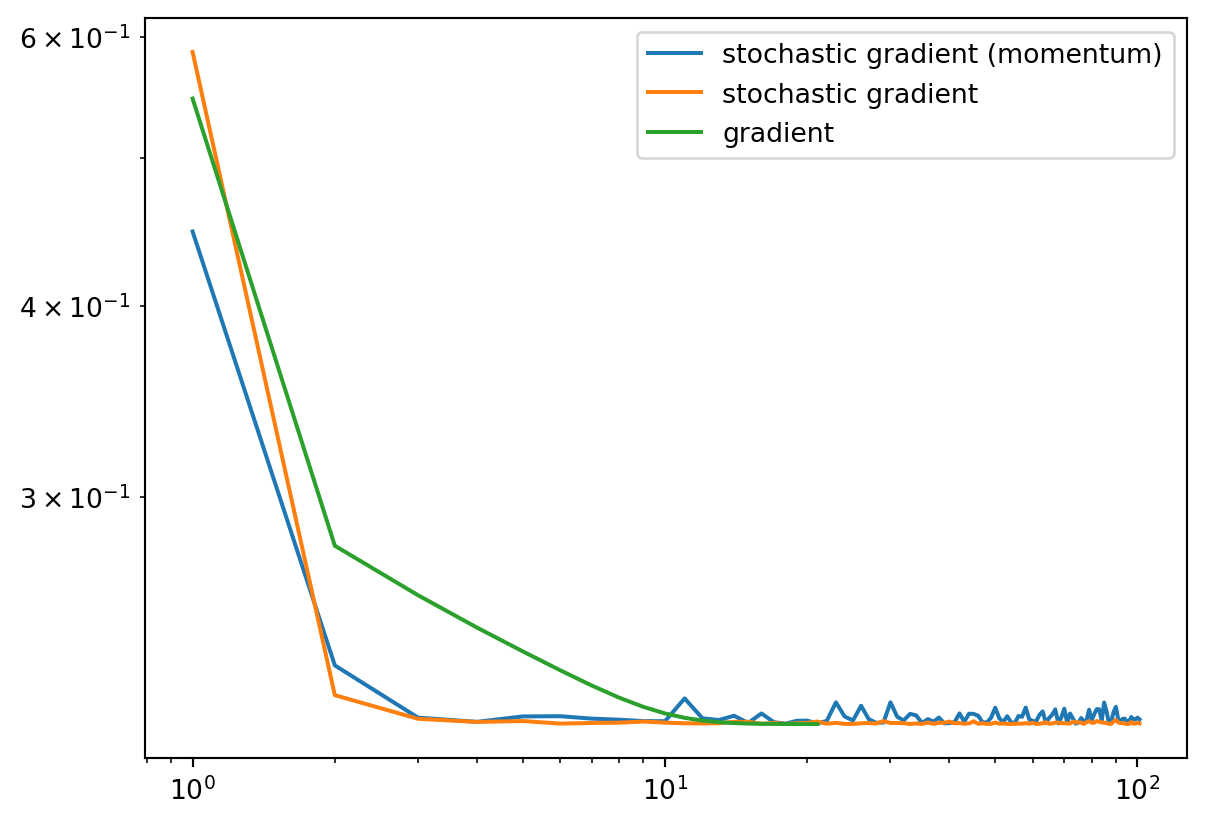
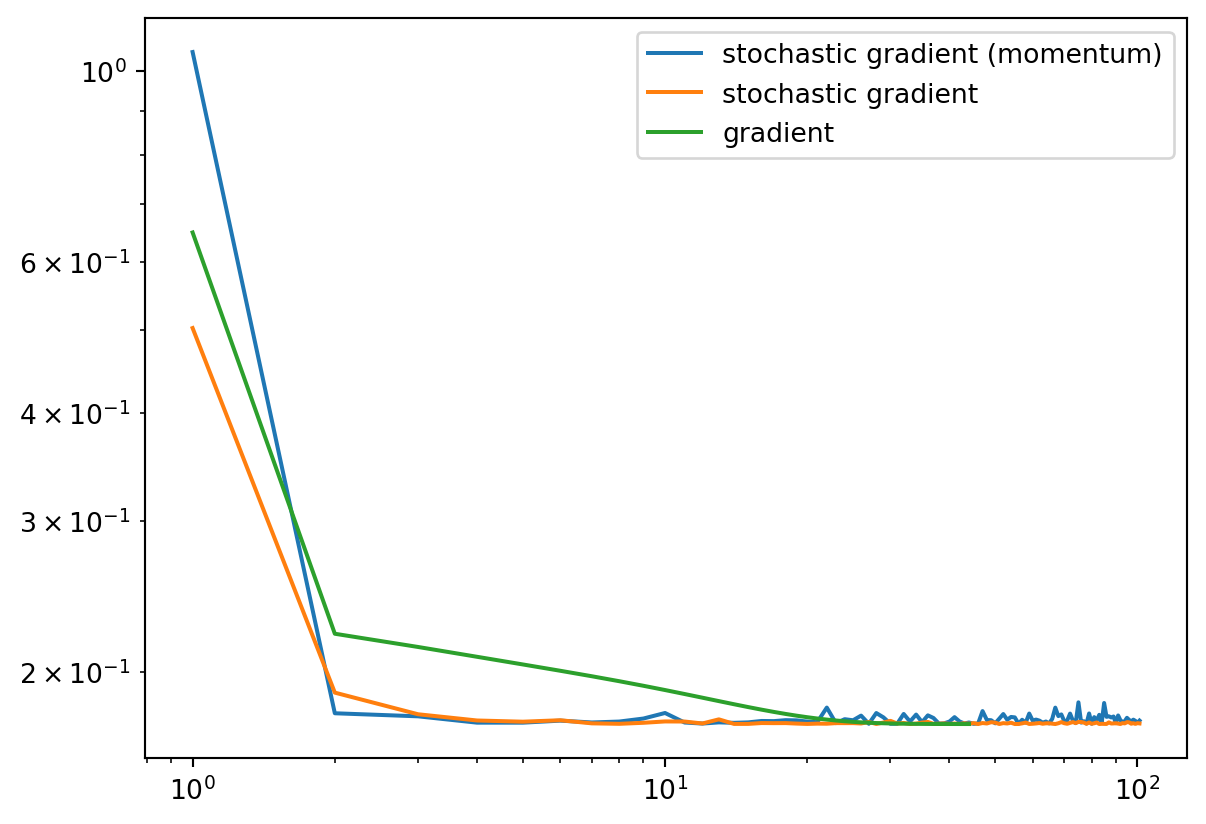
various updates

diff --git a/docs/assignments/blog-posts/blog-post-optimization.html b/docs/assignments/blog-posts/blog-post-optimization.html
@@ -281,9 +281,13 @@ code span.wa { color: #60a0b0; font-weight: bold; font-style: italic; } /* Warni
 <span id="cb2-4"><a href="#cb2-4" aria-hidden="true" tabindex="-1"></a>LR.fit(X, y, alpha <span class="op">=</span> <span class="fl">0.1</span>, max_epochs <span class="op">=</span> <span class="dv">1000</span>)</span>
 <span id="cb2-5"><a href="#cb2-5" aria-hidden="true" tabindex="-1"></a></span>
 <span id="cb2-6"><a href="#cb2-6" aria-hidden="true" tabindex="-1"></a><span class="co"># inspect the fitted value of w</span></span>
-<span id="cb2-7"><a href="#cb2-7" aria-hidden="true" tabindex="-1"></a>LR.w </span></code><button title="Copy to Clipboard" class="code-copy-button"><i class="bi"></i></button></pre></div>
-<div class="cell-output cell-output-display" data-execution_count="2">
-<pre><code>array([ 1.82446608,  2.00364179, -0.239102  ])</code></pre>
+<span id="cb2-7"><a href="#cb2-7" aria-hidden="true" tabindex="-1"></a>LR.w </span>
+<span id="cb2-8"><a href="#cb2-8" aria-hidden="true" tabindex="-1"></a></span>
+<span id="cb2-9"><a href="#cb2-9" aria-hidden="true" tabindex="-1"></a>fig <span class="op">=</span> plt.scatter(X[:,<span class="dv">0</span>], X[:,<span class="dv">1</span>], c <span class="op">=</span> y)</span>
+<span id="cb2-10"><a href="#cb2-10" aria-hidden="true" tabindex="-1"></a>xlab <span class="op">=</span> plt.xlabel(<span class="st">"Feature 1"</span>)</span>
+<span id="cb2-11"><a href="#cb2-11" aria-hidden="true" tabindex="-1"></a>ylab <span class="op">=</span> plt.ylabel(<span class="st">"Feature 2"</span>)</span></code><button title="Copy to Clipboard" class="code-copy-button"><i class="bi"></i></button></pre></div>
+<div class="cell-output cell-output-display">
+<p><img src="blog-post-optimization_files/figure-html/cell-3-output-1.png" width="587" height="429"></p>
 </div>
 </div>
 </section>
@@ -305,19 +309,19 @@ code span.wa { color: #60a0b0; font-weight: bold; font-style: italic; } /* Warni
 <li>When we have gone through all <span class="math inline">\(n\)</span> points, reshuffle them all randomly and proceed again.</li>
 </ol>
 <p>This process can be accomplished efficiently using the <code>np.array_split()</code> function, which will create batches for you. Here is some code to get you started; it will split the data into batches of size <code>batch_size</code></p>
-<div class="sourceCode" id="cb4"><pre class="sourceCode python code-with-copy"><code class="sourceCode python"><span id="cb4-1"><a href="#cb4-1" aria-hidden="true" tabindex="-1"></a></span>
-<span id="cb4-2"><a href="#cb4-2" aria-hidden="true" tabindex="-1"></a>n <span class="op">=</span> X.shape[<span class="dv">0</span>]</span>
-<span id="cb4-3"><a href="#cb4-3" aria-hidden="true" tabindex="-1"></a><span class="cf">for</span> j <span class="kw">in</span> np.arange(m_epochs):</span>
-<span id="cb4-4"><a href="#cb4-4" aria-hidden="true" tabindex="-1"></a>            </span>
-<span id="cb4-5"><a href="#cb4-5" aria-hidden="true" tabindex="-1"></a>    order <span class="op">=</span> np.arange(n)</span>
-<span id="cb4-6"><a href="#cb4-6" aria-hidden="true" tabindex="-1"></a>    np.random.shuffle(order)</span>
-<span id="cb4-7"><a href="#cb4-7" aria-hidden="true" tabindex="-1"></a></span>
-<span id="cb4-8"><a href="#cb4-8" aria-hidden="true" tabindex="-1"></a>    <span class="cf">for</span> batch <span class="kw">in</span> np.array_split(order, n <span class="op">//</span> batch_size <span class="op">+</span> <span class="dv">1</span>):</span>
-<span id="cb4-9"><a href="#cb4-9" aria-hidden="true" tabindex="-1"></a>        x_batch <span class="op">=</span> X[batch,:]</span>
-<span id="cb4-10"><a href="#cb4-10" aria-hidden="true" tabindex="-1"></a>        y_batch <span class="op">=</span> y[batch]</span>
-<span id="cb4-11"><a href="#cb4-11" aria-hidden="true" tabindex="-1"></a>        grad <span class="op">=</span> gradient(w, x_batch, y_batch) </span>
-<span id="cb4-12"><a href="#cb4-12" aria-hidden="true" tabindex="-1"></a>        <span class="co"># perform the gradient step</span></span>
-<span id="cb4-13"><a href="#cb4-13" aria-hidden="true" tabindex="-1"></a>        <span class="co"># ...</span></span></code><button title="Copy to Clipboard" class="code-copy-button"><i class="bi"></i></button></pre></div>
+<div class="sourceCode" id="cb3"><pre class="sourceCode python code-with-copy"><code class="sourceCode python"><span id="cb3-1"><a href="#cb3-1" aria-hidden="true" tabindex="-1"></a></span>
+<span id="cb3-2"><a href="#cb3-2" aria-hidden="true" tabindex="-1"></a>n <span class="op">=</span> X.shape[<span class="dv">0</span>]</span>
+<span id="cb3-3"><a href="#cb3-3" aria-hidden="true" tabindex="-1"></a><span class="cf">for</span> j <span class="kw">in</span> np.arange(m_epochs):</span>
+<span id="cb3-4"><a href="#cb3-4" aria-hidden="true" tabindex="-1"></a>            </span>
+<span id="cb3-5"><a href="#cb3-5" aria-hidden="true" tabindex="-1"></a>    order <span class="op">=</span> np.arange(n)</span>
+<span id="cb3-6"><a href="#cb3-6" aria-hidden="true" tabindex="-1"></a>    np.random.shuffle(order)</span>
+<span id="cb3-7"><a href="#cb3-7" aria-hidden="true" tabindex="-1"></a></span>
+<span id="cb3-8"><a href="#cb3-8" aria-hidden="true" tabindex="-1"></a>    <span class="cf">for</span> batch <span class="kw">in</span> np.array_split(order, n <span class="op">//</span> batch_size <span class="op">+</span> <span class="dv">1</span>):</span>
+<span id="cb3-9"><a href="#cb3-9" aria-hidden="true" tabindex="-1"></a>        x_batch <span class="op">=</span> X[batch,:]</span>
+<span id="cb3-10"><a href="#cb3-10" aria-hidden="true" tabindex="-1"></a>        y_batch <span class="op">=</span> y[batch]</span>
+<span id="cb3-11"><a href="#cb3-11" aria-hidden="true" tabindex="-1"></a>        grad <span class="op">=</span> gradient(w, x_batch, y_batch) </span>
+<span id="cb3-12"><a href="#cb3-12" aria-hidden="true" tabindex="-1"></a>        <span class="co"># perform the gradient step</span></span>
+<span id="cb3-13"><a href="#cb3-13" aria-hidden="true" tabindex="-1"></a>        <span class="co"># ...</span></span></code><button title="Copy to Clipboard" class="code-copy-button"><i class="bi"></i></button></pre></div>
 <p>For stochastic gradient descent, only update <code>self.loss_history</code> <em>at the end of each epoch</em>. This allows us to compare to regular gradient descent, since in both algorithms at the end of an epoch we have used every single point once.</p>
 </section>
 <section id="momentum-optional" class="level3">
@@ -328,35 +332,35 @@ code span.wa { color: #60a0b0; font-weight: bold; font-style: italic; } /* Warni
 <h3 class="anchored" data-anchor-id="illustration">Illustration</h3>
 <p>Here is an example plot showing the evolution of the loss function for the three algorithms:</p>
 <div class="cell caption-undefined" data-execution_count="4">
-<div class="sourceCode cell-code" id="cb5"><pre class="sourceCode python code-with-copy"><code class="sourceCode python"><span id="cb5-1"><a href="#cb5-1" aria-hidden="true" tabindex="-1"></a>LR <span class="op">=</span> LogisticRegression()</span>
-<span id="cb5-2"><a href="#cb5-2" aria-hidden="true" tabindex="-1"></a>LR.fit_stochastic(X, y, </span>
-<span id="cb5-3"><a href="#cb5-3" aria-hidden="true" tabindex="-1"></a>                  m_epochs <span class="op">=</span> <span class="dv">100</span>, </span>
-<span id="cb5-4"><a href="#cb5-4" aria-hidden="true" tabindex="-1"></a>                  momentum <span class="op">=</span> <span class="va">True</span>, </span>
-<span id="cb5-5"><a href="#cb5-5" aria-hidden="true" tabindex="-1"></a>                  batch_size <span class="op">=</span> <span class="dv">10</span>, </span>
-<span id="cb5-6"><a href="#cb5-6" aria-hidden="true" tabindex="-1"></a>                  alpha <span class="op">=</span> <span class="fl">.05</span>) </span>
-<span id="cb5-7"><a href="#cb5-7" aria-hidden="true" tabindex="-1"></a></span>
-<span id="cb5-8"><a href="#cb5-8" aria-hidden="true" tabindex="-1"></a>num_steps <span class="op">=</span> <span class="bu">len</span>(LR.loss_history)</span>
-<span id="cb5-9"><a href="#cb5-9" aria-hidden="true" tabindex="-1"></a>plt.plot(np.arange(num_steps) <span class="op">+</span> <span class="dv">1</span>, LR.loss_history, label <span class="op">=</span> <span class="st">"stochastic gradient (momentum)"</span>)</span>
-<span id="cb5-10"><a href="#cb5-10" aria-hidden="true" tabindex="-1"></a></span>
-<span id="cb5-11"><a href="#cb5-11" aria-hidden="true" tabindex="-1"></a>LR <span class="op">=</span> LogisticRegression()</span>
-<span id="cb5-12"><a href="#cb5-12" aria-hidden="true" tabindex="-1"></a>LR.fit_stochastic(X, y, </span>
-<span id="cb5-13"><a href="#cb5-13" aria-hidden="true" tabindex="-1"></a>                  m_epochs <span class="op">=</span> <span class="dv">100</span>, </span>
-<span id="cb5-14"><a href="#cb5-14" aria-hidden="true" tabindex="-1"></a>                  momentum <span class="op">=</span> <span class="va">False</span>, </span>
-<span id="cb5-15"><a href="#cb5-15" aria-hidden="true" tabindex="-1"></a>                  batch_size <span class="op">=</span> <span class="dv">10</span>, </span>
-<span id="cb5-16"><a href="#cb5-16" aria-hidden="true" tabindex="-1"></a>                  alpha <span class="op">=</span> <span class="fl">.1</span>)</span>
-<span id="cb5-17"><a href="#cb5-17" aria-hidden="true" tabindex="-1"></a></span>
-<span id="cb5-18"><a href="#cb5-18" aria-hidden="true" tabindex="-1"></a>num_steps <span class="op">=</span> <span class="bu">len</span>(LR.loss_history)</span>
-<span id="cb5-19"><a href="#cb5-19" aria-hidden="true" tabindex="-1"></a>plt.plot(np.arange(num_steps) <span class="op">+</span> <span class="dv">1</span>, LR.loss_history, label <span class="op">=</span> <span class="st">"stochastic gradient"</span>)</span>
-<span id="cb5-20"><a href="#cb5-20" aria-hidden="true" tabindex="-1"></a></span>
-<span id="cb5-21"><a href="#cb5-21" aria-hidden="true" tabindex="-1"></a>LR <span class="op">=</span> LogisticRegression()</span>
-<span id="cb5-22"><a href="#cb5-22" aria-hidden="true" tabindex="-1"></a>LR.fit(X, y, alpha <span class="op">=</span> <span class="fl">.05</span>, max_epochs <span class="op">=</span> <span class="dv">100</span>)</span>
-<span id="cb5-23"><a href="#cb5-23" aria-hidden="true" tabindex="-1"></a></span>
-<span id="cb5-24"><a href="#cb5-24" aria-hidden="true" tabindex="-1"></a>num_steps <span class="op">=</span> <span class="bu">len</span>(LR.loss_history)</span>
-<span id="cb5-25"><a href="#cb5-25" aria-hidden="true" tabindex="-1"></a>plt.plot(np.arange(num_steps) <span class="op">+</span> <span class="dv">1</span>, LR.loss_history, label <span class="op">=</span> <span class="st">"gradient"</span>)</span>
-<span id="cb5-26"><a href="#cb5-26" aria-hidden="true" tabindex="-1"></a></span>
-<span id="cb5-27"><a href="#cb5-27" aria-hidden="true" tabindex="-1"></a>plt.loglog()</span>
-<span id="cb5-28"><a href="#cb5-28" aria-hidden="true" tabindex="-1"></a></span>
-<span id="cb5-29"><a href="#cb5-29" aria-hidden="true" tabindex="-1"></a>legend <span class="op">=</span> plt.legend() </span></code><button title="Copy to Clipboard" class="code-copy-button"><i class="bi"></i></button></pre></div>
+<div class="sourceCode cell-code" id="cb4"><pre class="sourceCode python code-with-copy"><code class="sourceCode python"><span id="cb4-1"><a href="#cb4-1" aria-hidden="true" tabindex="-1"></a>LR <span class="op">=</span> LogisticRegression()</span>
+<span id="cb4-2"><a href="#cb4-2" aria-hidden="true" tabindex="-1"></a>LR.fit_stochastic(X, y, </span>
+<span id="cb4-3"><a href="#cb4-3" aria-hidden="true" tabindex="-1"></a>                  m_epochs <span class="op">=</span> <span class="dv">100</span>, </span>
+<span id="cb4-4"><a href="#cb4-4" aria-hidden="true" tabindex="-1"></a>                  momentum <span class="op">=</span> <span class="va">True</span>, </span>
+<span id="cb4-5"><a href="#cb4-5" aria-hidden="true" tabindex="-1"></a>                  batch_size <span class="op">=</span> <span class="dv">10</span>, </span>
+<span id="cb4-6"><a href="#cb4-6" aria-hidden="true" tabindex="-1"></a>                  alpha <span class="op">=</span> <span class="fl">.05</span>) </span>
+<span id="cb4-7"><a href="#cb4-7" aria-hidden="true" tabindex="-1"></a></span>
+<span id="cb4-8"><a href="#cb4-8" aria-hidden="true" tabindex="-1"></a>num_steps <span class="op">=</span> <span class="bu">len</span>(LR.loss_history)</span>
+<span id="cb4-9"><a href="#cb4-9" aria-hidden="true" tabindex="-1"></a>plt.plot(np.arange(num_steps) <span class="op">+</span> <span class="dv">1</span>, LR.loss_history, label <span class="op">=</span> <span class="st">"stochastic gradient (momentum)"</span>)</span>
+<span id="cb4-10"><a href="#cb4-10" aria-hidden="true" tabindex="-1"></a></span>
+<span id="cb4-11"><a href="#cb4-11" aria-hidden="true" tabindex="-1"></a>LR <span class="op">=</span> LogisticRegression()</span>
+<span id="cb4-12"><a href="#cb4-12" aria-hidden="true" tabindex="-1"></a>LR.fit_stochastic(X, y, </span>
+<span id="cb4-13"><a href="#cb4-13" aria-hidden="true" tabindex="-1"></a>                  m_epochs <span class="op">=</span> <span class="dv">100</span>, </span>
+<span id="cb4-14"><a href="#cb4-14" aria-hidden="true" tabindex="-1"></a>                  momentum <span class="op">=</span> <span class="va">False</span>, </span>
+<span id="cb4-15"><a href="#cb4-15" aria-hidden="true" tabindex="-1"></a>                  batch_size <span class="op">=</span> <span class="dv">10</span>, </span>
+<span id="cb4-16"><a href="#cb4-16" aria-hidden="true" tabindex="-1"></a>                  alpha <span class="op">=</span> <span class="fl">.1</span>)</span>
+<span id="cb4-17"><a href="#cb4-17" aria-hidden="true" tabindex="-1"></a></span>
+<span id="cb4-18"><a href="#cb4-18" aria-hidden="true" tabindex="-1"></a>num_steps <span class="op">=</span> <span class="bu">len</span>(LR.loss_history)</span>
+<span id="cb4-19"><a href="#cb4-19" aria-hidden="true" tabindex="-1"></a>plt.plot(np.arange(num_steps) <span class="op">+</span> <span class="dv">1</span>, LR.loss_history, label <span class="op">=</span> <span class="st">"stochastic gradient"</span>)</span>
+<span id="cb4-20"><a href="#cb4-20" aria-hidden="true" tabindex="-1"></a></span>
+<span id="cb4-21"><a href="#cb4-21" aria-hidden="true" tabindex="-1"></a>LR <span class="op">=</span> LogisticRegression()</span>
+<span id="cb4-22"><a href="#cb4-22" aria-hidden="true" tabindex="-1"></a>LR.fit(X, y, alpha <span class="op">=</span> <span class="fl">.05</span>, max_epochs <span class="op">=</span> <span class="dv">100</span>)</span>
+<span id="cb4-23"><a href="#cb4-23" aria-hidden="true" tabindex="-1"></a></span>
+<span id="cb4-24"><a href="#cb4-24" aria-hidden="true" tabindex="-1"></a>num_steps <span class="op">=</span> <span class="bu">len</span>(LR.loss_history)</span>
+<span id="cb4-25"><a href="#cb4-25" aria-hidden="true" tabindex="-1"></a>plt.plot(np.arange(num_steps) <span class="op">+</span> <span class="dv">1</span>, LR.loss_history, label <span class="op">=</span> <span class="st">"gradient"</span>)</span>
+<span id="cb4-26"><a href="#cb4-26" aria-hidden="true" tabindex="-1"></a></span>
+<span id="cb4-27"><a href="#cb4-27" aria-hidden="true" tabindex="-1"></a>plt.loglog()</span>
+<span id="cb4-28"><a href="#cb4-28" aria-hidden="true" tabindex="-1"></a></span>
+<span id="cb4-29"><a href="#cb4-29" aria-hidden="true" tabindex="-1"></a>legend <span class="op">=</span> plt.legend() </span></code><button title="Copy to Clipboard" class="code-copy-button"><i class="bi"></i></button></pre></div>
 <div class="cell-output cell-output-display">
 <div class="quarto-figure quarto-figure-center">
 <figure class="figure">
@@ -391,9 +395,27 @@ code span.wa { color: #60a0b0; font-weight: bold; font-style: italic; } /* Warni
 <section id="tips-and-hints" class="level2">
 <h2 class="anchored" data-anchor-id="tips-and-hints">Tips and Hints</h2>
 <p>Most of the major math functions are shown in our <a href="../../lecture-notes/gradient-descent.html">lecture on gradient descent</a>. You’re welcome to use any of these functions as you wish; please just incorporate comments in your code and blog post to cite where they came from.</p>
+<p>If you compute the gradient using matrix-vector operations in <code>numpy</code> (recommended, no for-loops!), you may find it useful at some point to convert an <code>np.array()</code> of shape <code>(n,)</code> to an <code>np.array()</code> of shape <code>(n,1)</code> like this:</p>
+<div class="cell" data-execution_count="5">
+<div class="sourceCode cell-code" id="cb5"><pre class="sourceCode python code-with-copy"><code class="sourceCode python"><span id="cb5-1"><a href="#cb5-1" aria-hidden="true" tabindex="-1"></a>v <span class="op">=</span> np.random.rand(<span class="dv">5</span>)</span>
+<span id="cb5-2"><a href="#cb5-2" aria-hidden="true" tabindex="-1"></a>v</span></code><button title="Copy to Clipboard" class="code-copy-button"><i class="bi"></i></button></pre></div>
+<div class="cell-output cell-output-display" data-execution_count="4">
+<pre><code>array([0.81757459, 0.98486639, 0.80650144, 0.20660222, 0.71714214])</code></pre>
+</div>
+</div>
+<div class="cell" data-execution_count="6">
+<div class="sourceCode cell-code" id="cb7"><pre class="sourceCode python code-with-copy"><code class="sourceCode python"><span id="cb7-1"><a href="#cb7-1" aria-hidden="true" tabindex="-1"></a>v[:,np.newaxis]</span></code><button title="Copy to Clipboard" class="code-copy-button"><i class="bi"></i></button></pre></div>
+<div class="cell-output cell-output-display" data-execution_count="5">
+<pre><code>array([[0.81757459],
+       [0.98486639],
+       [0.80650144],
+       [0.20660222],
+       [0.71714214]])</code></pre>
+</div>
+</div>
 <p>You will find it convenient again to ensure that <code>X</code> contains a column of <code>1</code>s prior to any major computations. I defined this function:</p>
-<div class="sourceCode" id="cb6"><pre class="sourceCode python code-with-copy"><code class="sourceCode python"><span id="cb6-1"><a href="#cb6-1" aria-hidden="true" tabindex="-1"></a><span class="kw">def</span> pad(X):</span>
-<span id="cb6-2"><a href="#cb6-2" aria-hidden="true" tabindex="-1"></a>    <span class="cf">return</span> np.append(X, np.ones((X.shape[<span class="dv">0</span>], <span class="dv">1</span>)), <span class="dv">1</span>)</span></code><button title="Copy to Clipboard" class="code-copy-button"><i class="bi"></i></button></pre></div>
+<div class="sourceCode" id="cb9"><pre class="sourceCode python code-with-copy"><code class="sourceCode python"><span id="cb9-1"><a href="#cb9-1" aria-hidden="true" tabindex="-1"></a><span class="kw">def</span> pad(X):</span>
+<span id="cb9-2"><a href="#cb9-2" aria-hidden="true" tabindex="-1"></a>    <span class="cf">return</span> np.append(X, np.ones((X.shape[<span class="dv">0</span>], <span class="dv">1</span>)), <span class="dv">1</span>)</span></code><button title="Copy to Clipboard" class="code-copy-button"><i class="bi"></i></button></pre></div>
 <p>and called it at a few strategic places in my implementation.</p>
 <p>My complete implementation, including all the math functions, momentum, etc. but excluding comments, was about 100 lines of code.</p>
 <p>You’re welcome to find creative ways to visualize your findings. You might also find it interesting to visualize the score (not just the loss). However, this is optional.</p>

diff --git a/docs/lecture-notes/classification-in-practice-live.html b/docs/lecture-notes/classification-in-practice-live.html
@@ -224,13 +224,13 @@ L(\mathbf{w}) = \sum_{i = 1}^n \ell(\langle \mathbf{w}, \phi(\mathbf{x}_i) \rang
 <h1>The Titanic Data Set</h1>
 <p>The Titanic Data Set is something like the “Hello world” of machine learning. It collects information about almost 900 passengers aboard the Titanic during the fateful voyage when it crashed into an iceberg in 1912 and sank. The information includes their age; the fare they paid for their ticket (in British pounds); their sex; and the passenger class <code>Pclass</code>, with 1st class corresponding to VIP treatment and 3rd class corresponding to a much less luxurious experience. Crucially, the data set also records whether that passenger survived the sinking of the ship, with 1 indicating that the passenger survived and 0 indicating that the passenger tragically perished.</p>
 <p>It is often convenient to represent tables of data as <em>data frames</em>. Data frames are implemented in multiple ways in multiple languages; we’ll work with data frames through <code>pandas</code>.</p>
-<div class="cell" data-vscode="{&quot;languageId&quot;:&quot;python&quot;}">
+<div class="cell">
 <div class="sourceCode cell-code" id="cb1"><pre class="sourceCode python code-with-copy"><code class="sourceCode python"><span id="cb1-1"><a href="#cb1-1" aria-hidden="true" tabindex="-1"></a><span class="im">import</span> pandas <span class="im">as</span> pd</span>
 <span id="cb1-2"><a href="#cb1-2" aria-hidden="true" tabindex="-1"></a><span class="im">import</span> numpy <span class="im">as</span> np</span>
 <span id="cb1-3"><a href="#cb1-3" aria-hidden="true" tabindex="-1"></a><span class="im">from</span> matplotlib <span class="im">import</span> pyplot <span class="im">as</span> plt</span></code><button title="Copy to Clipboard" class="code-copy-button"><i class="bi"></i></button></pre></div>
 </div>
 <p>The following function will retrieve data from the <code>url</code> in which I’ve hosted the data set. It returns both the complete data (<code>df</code>, for “data frame”) and split pieces of the data that contain only the features and the target, respectively.</p>
-<div class="cell" data-vscode="{&quot;languageId&quot;:&quot;python&quot;}">
+<div class="cell">
 <div class="sourceCode cell-code" id="cb2"><pre class="sourceCode python code-with-copy"><code class="sourceCode python"><span id="cb2-1"><a href="#cb2-1" aria-hidden="true" tabindex="-1"></a><span class="kw">def</span> read_titanic_data(url):</span>
 <span id="cb2-2"><a href="#cb2-2" aria-hidden="true" tabindex="-1"></a>  df <span class="op">=</span> pd.read_csv(url)</span>
 <span id="cb2-3"><a href="#cb2-3" aria-hidden="true" tabindex="-1"></a>  y <span class="op">=</span> df[<span class="st">"Survived"</span>]</span>
@@ -238,7 +238,7 @@ L(\mathbf{w}) = \sum_{i = 1}^n \ell(\langle \mathbf{w}, \phi(\mathbf{x}_i) \rang
 <span id="cb2-5"><a href="#cb2-5" aria-hidden="true" tabindex="-1"></a>  <span class="cf">return</span> df, X, y</span></code><button title="Copy to Clipboard" class="code-copy-button"><i class="bi"></i></button></pre></div>
 </div>
 <p>The reason I wrote a function is that we are going to read <em>two</em> data sets: a training data set and a testing data set. As we saw last time, the loss or score on the training data is not always a reliable guide to the ability of the model to make predictions on unseen data. For this reason, we are going to hold back a testing data set that we won’t actually download until we’re ready to evaluate our model. For now, let’s download the data on which we’ll train:</p>
-<div class="cell" data-vscode="{&quot;languageId&quot;:&quot;python&quot;}">
+<div class="cell">
 <div class="sourceCode cell-code" id="cb3"><pre class="sourceCode python code-with-copy"><code class="sourceCode python"><span id="cb3-1"><a href="#cb3-1" aria-hidden="true" tabindex="-1"></a>train_url <span class="op">=</span> <span class="st">"https://raw.githubusercontent.com/middlebury-csci-0451/CSCI-0451/main/data/titanic/train.csv"</span></span>
 <span id="cb3-2"><a href="#cb3-2" aria-hidden="true" tabindex="-1"></a></span>
 <span id="cb3-3"><a href="#cb3-3" aria-hidden="true" tabindex="-1"></a>df_train, X_train, y_train <span class="op">=</span> read_titanic_data(train_url)</span></code><button title="Copy to Clipboard" class="code-copy-button"><i class="bi"></i></button></pre></div>
@@ -283,7 +283,7 @@ L(\mathbf{w}) = \sum_{i = 1}^n \ell(\langle \mathbf{w}, \phi(\mathbf{x}_i) \rang
 <p>Now we’re ready to do some modeling! Now you know how to implement logistic regression (and maybe you’ve already done it!), but for today we’ll use the <code>scikit-learn</code> implementation. We can already go ahead and fit our model. In <code>sklearn</code>, the <code>score</code> of a classification model is just the accuracy rate.</p>
 <p>So, our model achieves about 80% accuracy on the training data, which is much better than the 60% we could have achieved by random guessing.</p>
 <p>Let’s take a look at the optimal parameter vector <span class="math inline">\(\mathbf{w}\)</span>. This is stored in <code>LR</code> in the <code>coef_</code> instance variable:</p>
-<div class="cell" data-vscode="{&quot;languageId&quot;:&quot;python&quot;}">
+<div class="cell">
 <div class="sourceCode cell-code" id="cb4"><pre class="sourceCode python code-with-copy"><code class="sourceCode python"><span id="cb4-1"><a href="#cb4-1" aria-hidden="true" tabindex="-1"></a>pd.DataFrame(</span>
 <span id="cb4-2"><a href="#cb4-2" aria-hidden="true" tabindex="-1"></a>  {<span class="st">"column"</span> : X_train.columns, </span>
 <span id="cb4-3"><a href="#cb4-3" aria-hidden="true" tabindex="-1"></a>  <span class="st">"coefficient"</span> : LR.coef_.ravel()})</span></code><button title="Copy to Clipboard" class="code-copy-button"><i class="bi"></i></button></pre></div>
@@ -300,7 +300,7 @@ L(\mathbf{w}) = \sum_{i = 1}^n \ell(\langle \mathbf{w}, \phi(\mathbf{x}_i) \rang
 <li>Should we try regularizing our logistic regression?</li>
 </ul>
 <p>We can’t exhaustively explore all possibilities, but let’s try to address one of these. Should we try incorporating polynomial features, and if so, of what degree?</p>
-<div class="cell" data-vscode="{&quot;languageId&quot;:&quot;python&quot;}">
+<div class="cell">
 <div class="sourceCode cell-code" id="cb5"><pre class="sourceCode python code-with-copy"><code class="sourceCode python"><span id="cb5-1"><a href="#cb5-1" aria-hidden="true" tabindex="-1"></a><span class="im">from</span> sklearn.preprocessing <span class="im">import</span> PolynomialFeatures</span>
 <span id="cb5-2"><a href="#cb5-2" aria-hidden="true" tabindex="-1"></a><span class="im">from</span> sklearn.pipeline <span class="im">import</span> Pipeline</span></code><button title="Copy to Clipboard" class="code-copy-button"><i class="bi"></i></button></pre></div>
 </div>
@@ -311,7 +311,7 @@ L(\mathbf{w}) = \sum_{i = 1}^n \ell(\langle \mathbf{w}, \phi(\mathbf{x}_i) \rang
 <p>We could do this with a janky for-loop, but the nice <code>scikit-learn</code> developers have implemented this for us. Here’s an example of cross-validation with 5 folds. This can take a little while, as there are actually 5 calls to <code>plr.fit()</code> happening under the hood.</p>
 <p>Each of these scores represents the model’s performance when used to predict one of the 5 folds of data after having been fit on the other 4. We often just average them to get an overall metric:</p>
 <p>Now we can try using cross-validation to get a sense for what degree of polynomial feature we should use. Degree 0 is actually the baseline model, and degree 1 corresponds to simply logistic regression without a polynomial feature map.</p>
-<div class="cell" data-vscode="{&quot;languageId&quot;:&quot;python&quot;}">
+<div class="cell">
 <div class="sourceCode cell-code" id="cb6"><pre class="sourceCode python code-with-copy"><code class="sourceCode python"><span id="cb6-1"><a href="#cb6-1" aria-hidden="true" tabindex="-1"></a><span class="cf">for</span> deg <span class="kw">in</span> <span class="bu">range</span>(<span class="dv">4</span>):</span>
 <span id="cb6-2"><a href="#cb6-2" aria-hidden="true" tabindex="-1"></a>  plr <span class="op">=</span> poly_LR(deg <span class="op">=</span> deg)</span>
 <span id="cb6-3"><a href="#cb6-3" aria-hidden="true" tabindex="-1"></a>  cv_scores <span class="op">=</span> cross_val_score(plr, X_train, y_train, cv<span class="op">=</span><span class="dv">5</span>)</span>
@@ -320,7 +320,7 @@ L(\mathbf{w}) = \sum_{i = 1}^n \ell(\langle \mathbf{w}, \phi(\mathbf{x}_i) \rang
 </div>
 <p>It looks like it doesn’t make a <em>huge</em> difference, but degree-2 polynomial features might be our best bet according to cross-validation. Let’s try go ahead and fit a single copy of this model on the entire training data:</p>
 <p>Let’s finally see how we do on the test set. We need to download the test set and process it in the same way that we did the training set.</p>
-<div class="cell" data-vscode="{&quot;languageId&quot;:&quot;python&quot;}">
+<div class="cell">
 <div class="sourceCode cell-code" id="cb7"><pre class="sourceCode python code-with-copy"><code class="sourceCode python"><span id="cb7-1"><a href="#cb7-1" aria-hidden="true" tabindex="-1"></a>test_url <span class="op">=</span> <span class="st">"https://raw.githubusercontent.com/middlebury-csci-0451/CSCI-0451/main/data/titanic/test.csv"</span></span>
 <span id="cb7-2"><a href="#cb7-2" aria-hidden="true" tabindex="-1"></a></span>
 <span id="cb7-3"><a href="#cb7-3" aria-hidden="true" tabindex="-1"></a>df_test, X_test, y_test <span class="op">=</span> read_titanic_data(test_url)</span>
@@ -333,7 +333,7 @@ L(\mathbf{w}) = \sum_{i = 1}^n \ell(\langle \mathbf{w}, \phi(\mathbf{x}_i) \rang
 
 <div class="no-row-height column-margin column-container"><div class="">
 <p>In case you’re wondering, our original logistic regression without polynomial features does <em>almost</em> as well on the test data:</p>
-<div class="cell" data-vscode="{&quot;languageId&quot;:&quot;python&quot;}">
+<div class="cell">
 <div class="sourceCode cell-code" id="cb8"><pre class="sourceCode python code-with-copy"><code class="sourceCode python"><span id="cb8-1"><a href="#cb8-1" aria-hidden="true" tabindex="-1"></a>LR.score(X_test, y_test).<span class="bu">round</span>(<span class="dv">4</span>)</span></code><button title="Copy to Clipboard" class="code-copy-button"><i class="bi"></i></button></pre></div>
 </div>
 </div></div></section>

diff --git a/docs/warmup-exercises.html b/docs/warmup-exercises.html
@@ -189,6 +189,7 @@ code span.wa { color: #60a0b0; font-weight: bold; font-style: italic; } /* Warni
   </ul></li>
   <li><a href="#sec-gradient-descent" id="toc-sec-gradient-descent" class="nav-link" data-scroll-target="#sec-gradient-descent">Gradient Descent</a></li>
   <li><a href="#sec-gradient-descent-2" id="toc-sec-gradient-descent-2" class="nav-link" data-scroll-target="#sec-gradient-descent-2">Gradient Descent (Again)</a></li>
+  <li><a href="#sec-overfitting" id="toc-sec-overfitting" class="nav-link" data-scroll-target="#sec-overfitting">Overfitting and the Scientific Method</a></li>
   <li><a href="#sec-erm" id="toc-sec-erm" class="nav-link" data-scroll-target="#sec-erm">The Coin-Flipping Game</a></li>
   <li><a href="#sec-classification-rates" id="toc-sec-classification-rates" class="nav-link" data-scroll-target="#sec-classification-rates">Classification Rates</a></li>
   </ul>
@@ -357,6 +358,19 @@ f(\lambda \vz_1 + (1-\lambda)\vz_2) \leq \lambda f(\vz_1) + (1-\lambda)f(\vz_2)\
 </ul></li>
 <li>Find two initial guesses for the parameter vector <span class="math inline">\(\vw\)</span> such that you get two <em>different</em> final minimizers (this is possible because <span class="math inline">\(f\)</span> is not convex).</li>
 </ol>
+</section>
+<section id="sec-overfitting" class="level2 page-columns page-full">
+<h2 class="anchored" data-anchor-id="sec-overfitting">Overfitting and the Scientific Method</h2>
+<div class="page-columns page-full"><p></p><div class="no-row-height column-margin column-container"><span class="aside"><img src="https://upload.wikimedia.org/wikipedia/commons/thumb/8/82/The_Scientific_Method.svg/520px-The_Scientific_Method.svg.png" class="img-fluid"> Image from <a href="https://en.wikipedia.org/wiki/Scientific_method">Wikipedia</a>.</span></div></div>
+<p>In <a href="https://en.wikipedia.org/wiki/Scientific_method">the scientific method</a>, it is often emphasized that we need to formulate a hypothesis <em>before</em> performing an experiment. It’s fine for the hypothesis to be based on <em>previous</em> experiments. However, the scientific method never allows us to perform an experiment, formulate a hypothesis, and then say that the experiment supported the (new) hypothesis.</p>
+<p>We can think of scientific theories as systems of thought that help us make predictions about new phenomena. With this in mind, <strong><em>please write a short paragraph explaining the importance of hypothesis-first science using the language of machine learning.</em></strong> In your explanation, please use the following vocabulary:</p>
+<ul>
+<li>Training data.</li>
+<li>Training accuracy.</li>
+<li>Validation/testing data.</li>
+<li>Validation/testing accuracy.</li>
+<li>Overfitting.</li>
+</ul>
 </section>
 <section id="sec-erm" class="level2 page-columns page-full">
 <h2 class="anchored" data-anchor-id="sec-erm">The Coin-Flipping Game</h2>

diff --git a/docs/schedule.html b/docs/schedule.html
@@ -361,7 +361,9 @@ ul.task-list{list-style: none;}
             </td>
             <td class="smaller syllabus-item-readings">
                     <b>Reading</b><br>
-                           TBD<br> 
+                           <a href="https://jakevdp.github.io/PythonDataScienceHandbook/05.02-introducing-scikit-learn.html">Introducing Scikit-Learn</a><br> 
+                           <a href="https://jakevdp.github.io/PythonDataScienceHandbook/05.03-hyperparameters-and-model-validation.html">Hyperparameters and Model Validation</a><br> 
+                           <a href="https://jakevdp.github.io/PythonDataScienceHandbook/05.04-feature-engineering.html">Feature Engineering</a><br> 
             </td>
             <td class="smaller syllabus-item-readings">
                     <b>Notes</b><br>
@@ -398,7 +400,7 @@ ul.task-list{list-style: none;}
             </td>
             <td class="smaller syllabus-item-readings">
                     <b>Reading</b><br>
-                           TBD<br> 
+                           <a href="https://via.hypothes.is/http://ciml.info/dl/v0_99/ciml-v0_99-ch02.pdf">Daumé Chapter 2</a> <i>You may find it useful to review Chapter 1 as well.</i><br> 
             </td>
             <td class="smaller syllabus-item-readings">
                     <b>Notes</b><br>
@@ -406,7 +408,7 @@ ul.task-list{list-style: none;}
             </td>
             <td class="smaller syllabus-item-assignment">
                     <b>Warmup</b><br>
-                    TBD
+                    <a href="./warmup-exercises.html#sec-overfitting">Overfitting and the Scientific Method</a>
             </td>
             <td class="smaller syllabus-item-assignment">
                     <b>Assignments</b><br>
